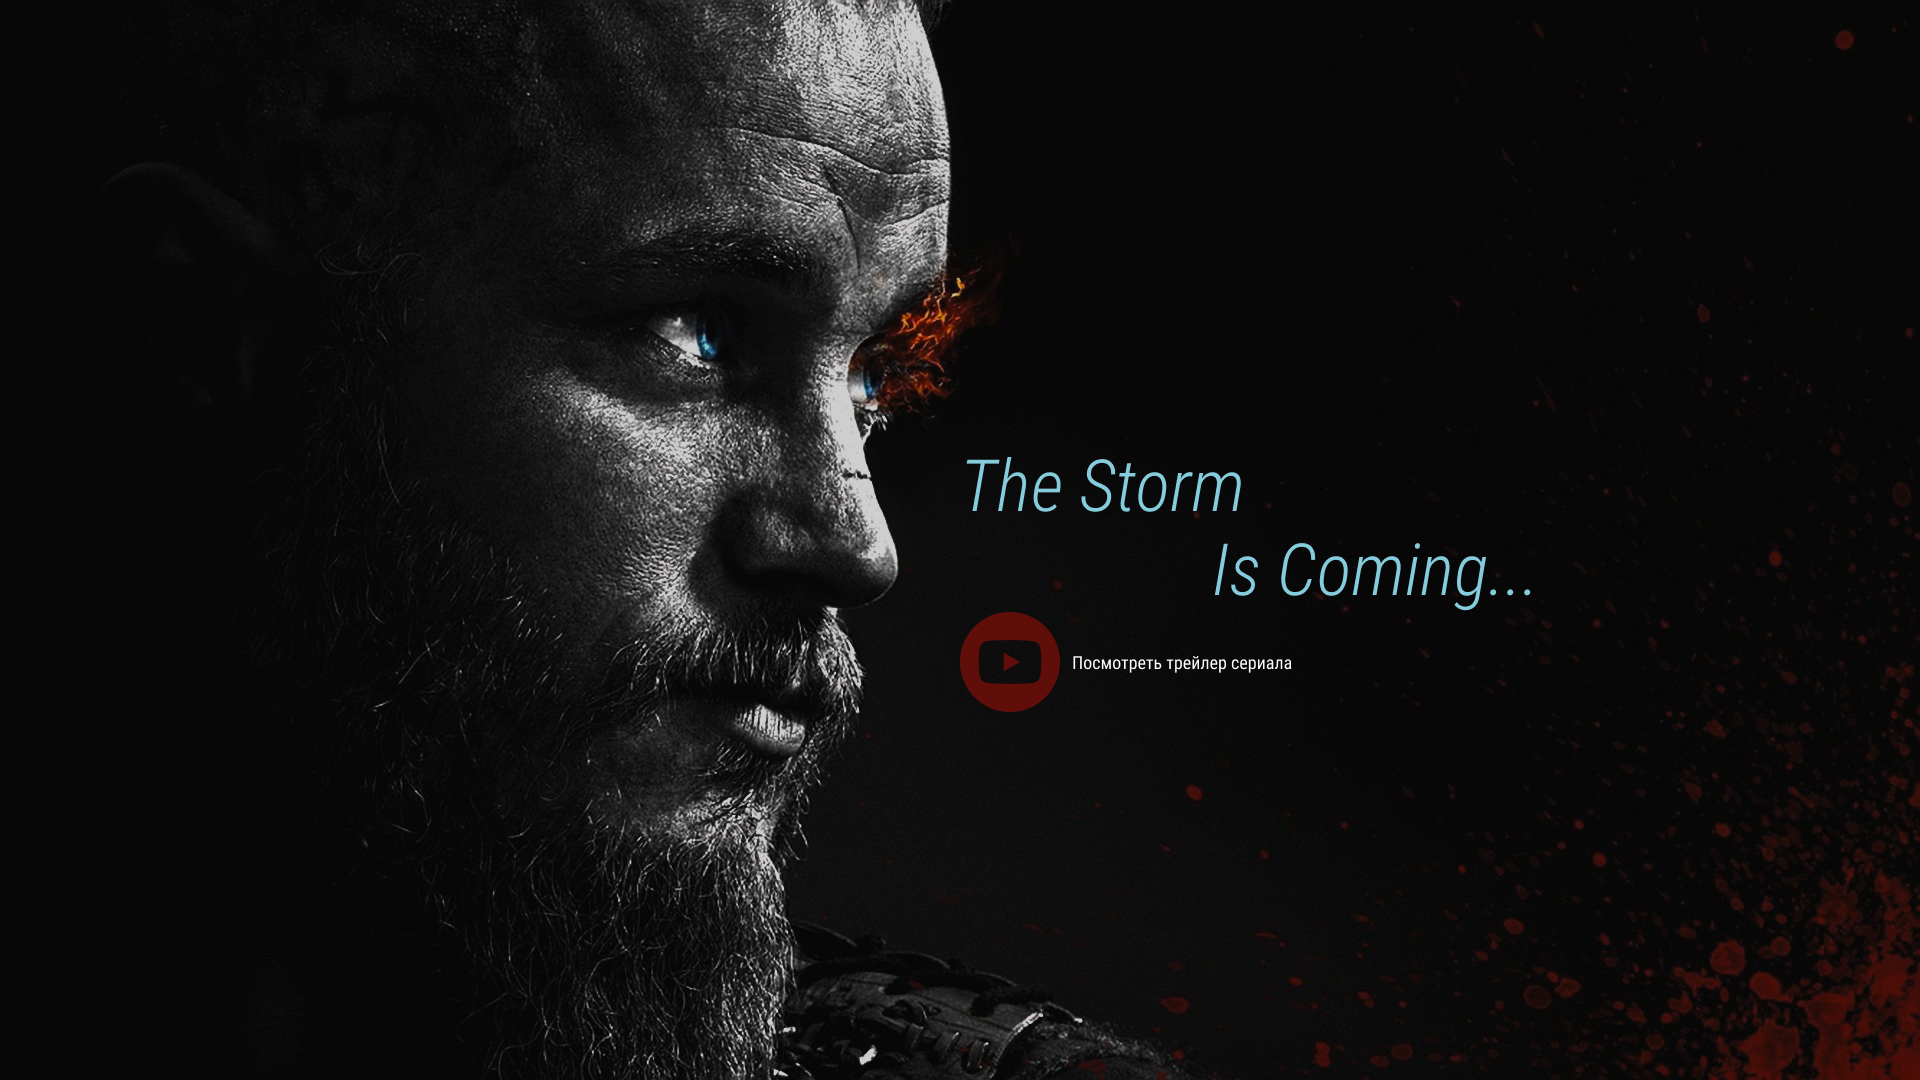
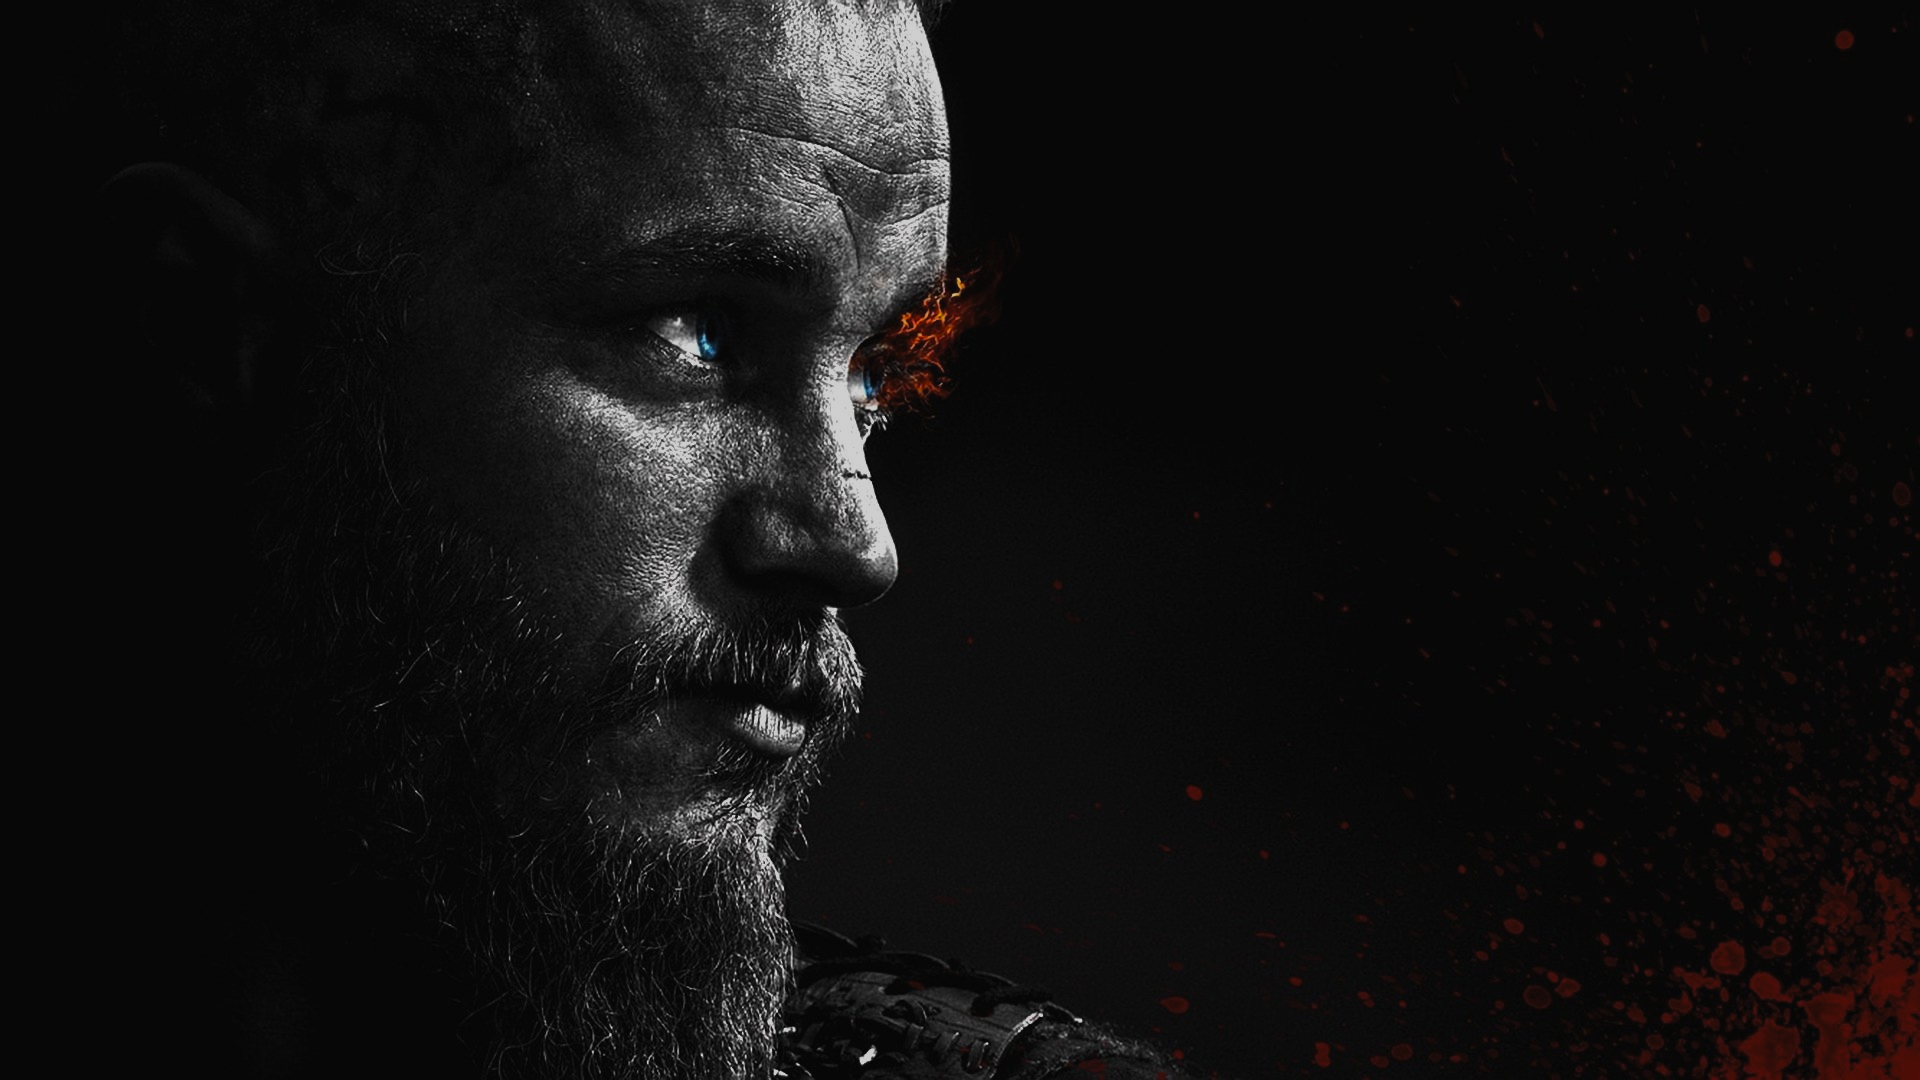
adds popup video

Changed region(s): [[0.5, 0.55, 0.6562, 0.6722], [0.5, 0.4278, 0.6562, 0.4889], [0.625, 0.4889, 0.7812, 0.55]]

diff --git a/index.html b/index.html
@@ -64,13 +64,23 @@
           <div class="about__text">
             <p>Викинги – шикарный исторический сериал, один из лучших в своем жанре, шоу может похвастаться огромной фан-базой, а также тем, что пробудил интерес к истории и возродил моду на викингов.</p>
             <p>
-              «Викинги» созданы по заказу канала американского канала History, однако работали над ним канадцы и ирландцы. Сериал поражает масштабными сценами сражений, добротным и глубоким сценарием, а также максимальным вниманием к исторической эпохи. Авторы сериала потратили кучу времени и денег (бюджет первого сезона - $40 млн, дальше суммы возросли) на то, чтобы викинги и их современники выглядели в шоу так, какими они был в свое время – VIII – IX веках нашей эры. С другой стороны – отсутствие точных исторических фактов и (полу)легендарность многих событий позволили авторам сериала
-              вольную трактовку многих событий.
+              «Викинги» созданы по заказу канала американского канала History, однако работали над ним канадцы и ирландцы. Сериал поражает масштабными сценами сражений, добротным и глубоким сценарием, а также максимальным вниманием к исторической эпохи. Авторы сериала потратили кучу времени и денег (бюджет первого сезона - $40 млн, дальше суммы возросли) на то, чтобы викинги и их современники выглядели в шоу так, какими они был в свое время – VIII – IX веках нашей эры. С другой стороны – отсутствие точных исторических фактов и (полу)легендарность многих событий позволили авторам сериала вольную трактовку многих событий.
             </p>
           </div>
         </div>
       </div>
     </section>
+
+<section class="video">
+  <div class="container">
+    <h3 class="video__text">
+      <span>The Storm</span>
+      Is Coming...
+    </h3>
+    <a class="video__btn" data-fancybox href="https://www.youtube.com/watch?v=9GgxinPwAGc">Посмотреть трейлер сериала</a>
+  </div>
+</section>
+
     <script src="https://ajax.googleapis.com/ajax/libs/jquery/3.4.1/jquery.min.js"></script>
     <script src="js/slick.min.js"></script>
     <script src="js/jquery.fancybox.min.js"></script>

diff --git a/css/style.css b/css/style.css
@@ -102,6 +102,46 @@ ul {
   display: block;
 }
 
-about__text p {
+.about__text p {
   margin-bottom: 25px;
+}
+
+.video {
+  background-image: url(../images/video-bg.jpg);
+  height: 100vh;
+  background-size: cover;
+  background-position: center center;
+  background-repeat: no-repeat;
+  text-align: right;
+}
+
+.video__text {
+  font-style: italic;
+  font-weight: 300;
+  font-size: 72px;
+  line-height: 84px;  
+  color: #85CCDC;
+  padding-top: 440px;
+  margin-bottom: 80px;
+}
+
+.video__text span {
+  display: block;
+  padding-right: 285px;  
+}
+
+.video__btn {
+padding-left: 112px;
+position: relative;
+margin-right: 230px;
+}
+
+.video__btn::before {
+content: '';
+position: absolute;
+width: 100px;
+height: 100px;
+left: 0;
+background:url('../images/youtube-btn.svg');
+top: -40px;
 }
